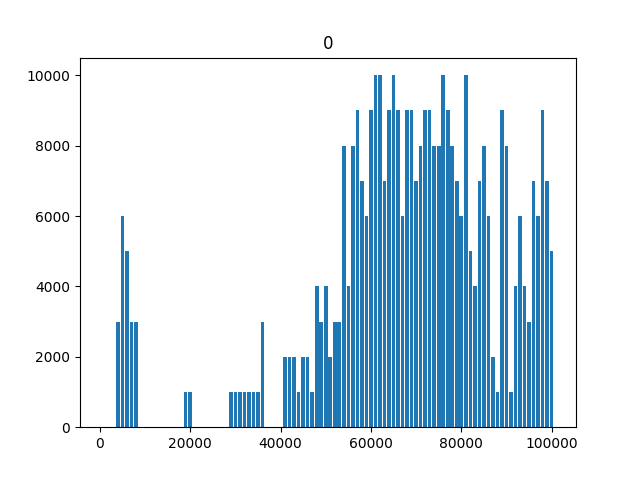
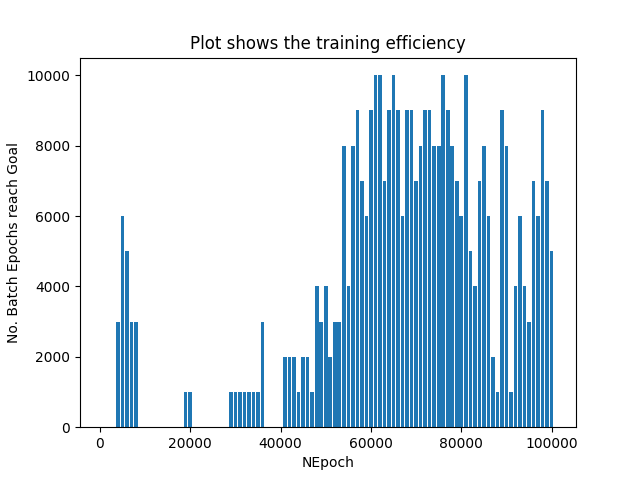
Analysis

Changed region(s): [[0.2812, 0.0625, 0.7188, 0.125], [0.0, 0.2812, 0.0312, 0.7188], [0.4688, 0.9375, 0.5625, 1.0]]

diff --git a/Logs/plot_data.py b/Logs/plot_data.py
@@ -11,11 +11,17 @@ Y_Dom = []
 
 for line in f.readlines():
     A = line.split("   ")
-    X_Dom.append(int(A[0]))
+    X_Dom.append(int(A[0])*100)
     Y_Dom.append((float(A[1].split("\n")[0])))
 
 print(len(X_Dom))
 print(len(Y_Dom))
 plt.plot(X_Dom,Y_Dom)
-plt.ylim([-400,0])
+plt.plot(X_Dom,[-50]*len(X_Dom),'b')
+plt.ylim([-200,0])
+plt.xlim([5000,100000])
+plt.xscale("log")
+plt.xlabel("NEpoch")
+plt.ylabel("AverageReward")
+plt.title("[Evaluation] AverageReward in each Epoch")
 plt.savefig(str(sys.argv[3]))

diff --git a/Logs/plot_data_velocity.py b/Logs/plot_data_velocity.py
@@ -88,7 +88,9 @@ print("Average of Last iterations around 100000 - percentage: ", (Buckets[NUM_BU
     
 plt.figure()
 plt.bar((np.arange(1,NUM_BUCKETS+1))*BUCKET_SIZE*100, np.array(Buckets)*1000, width=BUCKET_SIZE*80)
-plt.title(str(sys.argv[4]))
+plt.title("Plot shows the training efficiency")
+plt.xlabel("NEpoch")
+plt.ylabel("No. Batch Epochs reach Goal")
 plt.savefig("Bar_Graph_Efficiency_T" +str(sys.argv[4]) + ".png")
 
 plt.figure()
